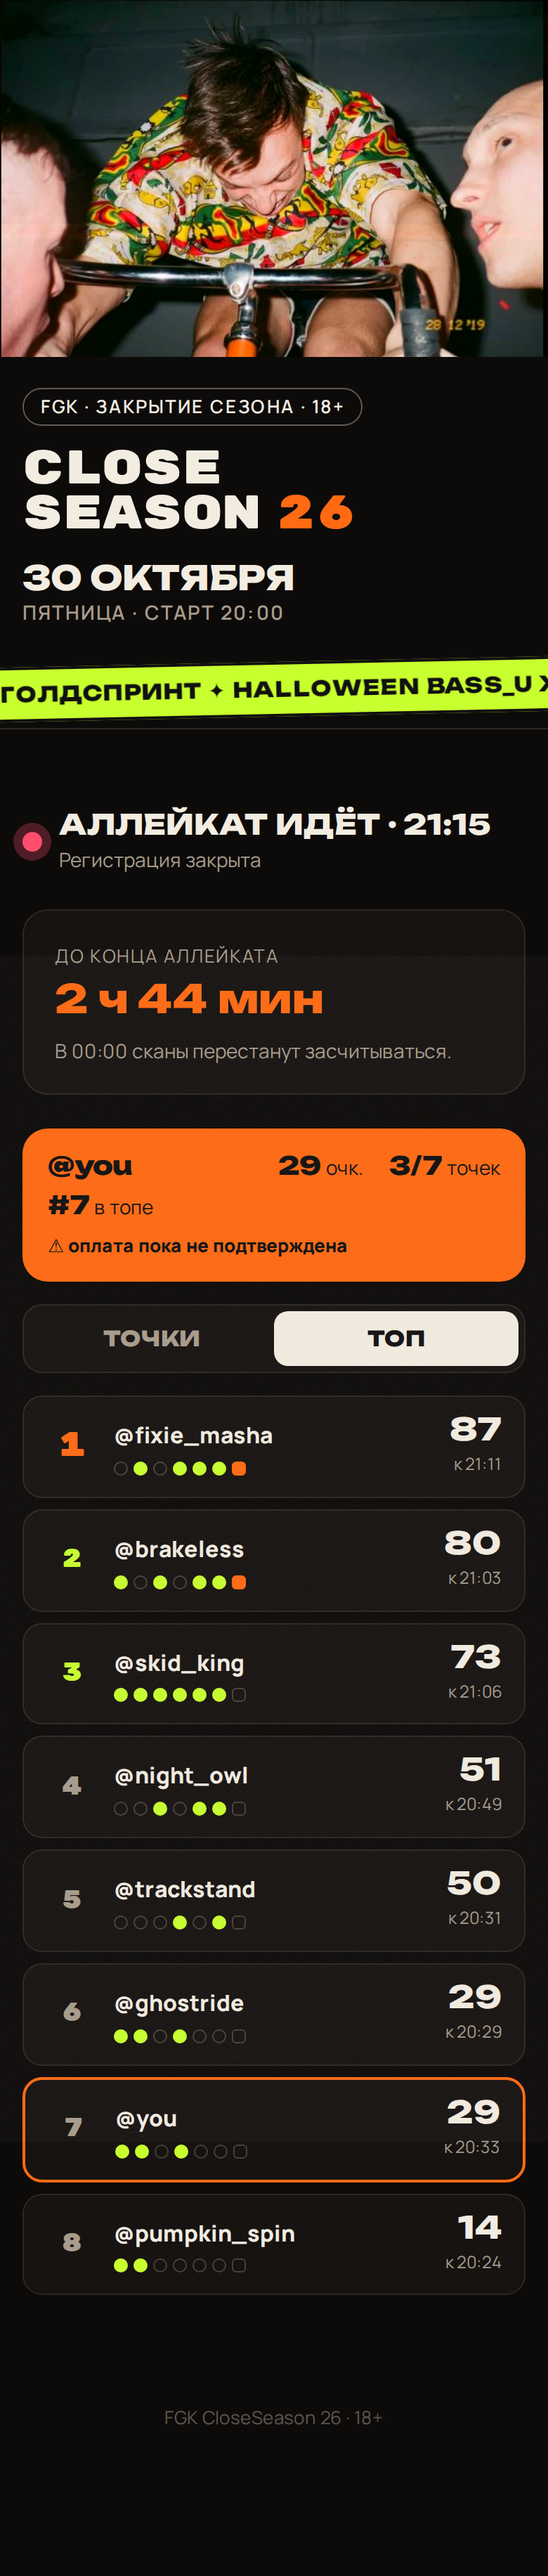
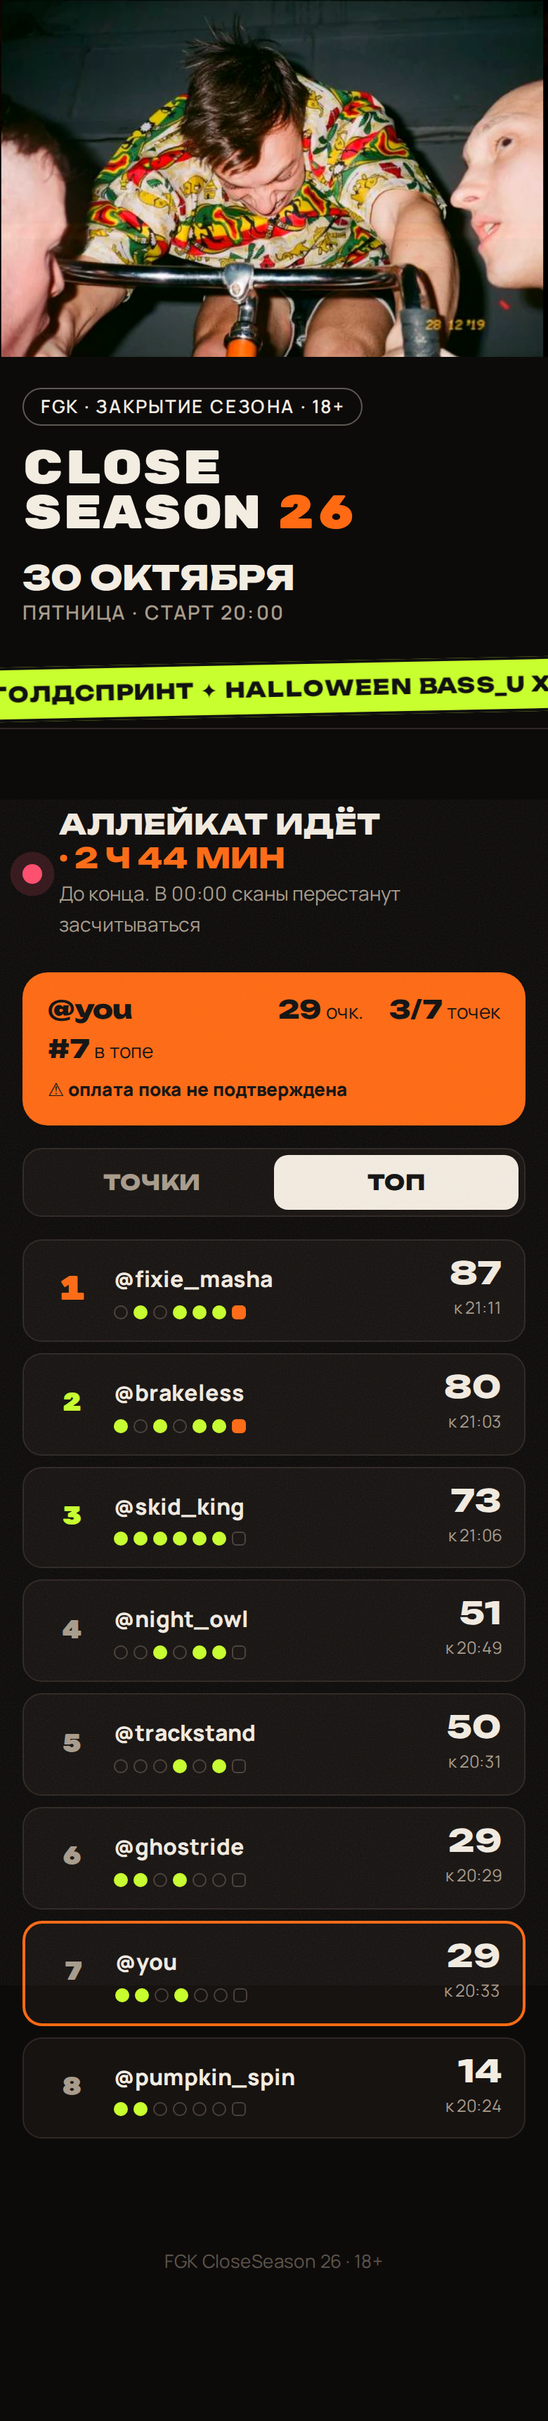
Шапка гонки: вместо часов обратный отсчёт до конца
Claude-Session: https://claude.ai/code/session_0122weFEyBkPzVmy7e3pz2TB

diff --git a/index.html b/index.html
@@ -9,7 +9,7 @@
   <link rel="preconnect" href="https://fonts.googleapis.com">
   <link rel="preconnect" href="https://fonts.gstatic.com" crossorigin>
   <link href="https://fonts.googleapis.com/css2?family=Rubik+Mono+One&family=Unbounded:wght@500;800&family=Manrope:wght@400;600;800&display=swap" rel="stylesheet">
-  <link rel="stylesheet" href="style.css?v=202610071028">
+  <link rel="stylesheet" href="style.css?v=202610071030">
 </head>
 <body>
   <div class="grain" aria-hidden="true"></div>
@@ -163,14 +163,8 @@
     <div class="view" id="race-view" hidden>
       <section class="live" id="live">
         <span class="live__dot" aria-hidden="true"></span>
-        <p class="live__text" id="live-text">Аллейкат идёт · <span id="race-clock">20:00</span></p>
+        <p class="live__text"><span id="live-label">Аллейкат идёт</span> <span class="live__clock">· <span id="race-clock">20:00</span></span></p>
         <p class="live__sub" id="live-sub">Регистрация закрыта</p>
-      </section>
-
-      <section class="countdown countdown--race" id="end-countdown" hidden>
-        <p class="countdown__label">До конца аллейката</p>
-        <p class="countdown__value" id="end-left">…</p>
-        <p class="countdown__note">В <span id="end-time">00:00</span> сканы перестанут засчитываться.</p>
       </section>
 
       <!-- гость: точки видны, но сканы не засчитываются -->
@@ -254,8 +248,8 @@
     <p>FGK CloseSeason 26 · 18+</p>
   </footer>
 
-  <script src="config.js?v=202610071028"></script>
-  <script src="data.js?v=202610071028"></script>
-  <script src="app.js?v=202610071028"></script>
+  <script src="config.js?v=202610071030"></script>
+  <script src="data.js?v=202610071030"></script>
+  <script src="app.js?v=202610071030"></script>
 </body>
 </html>

diff --git a/app.js b/app.js
@@ -263,16 +263,14 @@
   const raceEnded = () => state && state.end && now() >= state.end;
 
   function renderRace() {
-    $("race-clock").textContent = fmtTime(now());
     const ended = raceEnded();
     $("live").classList.toggle("is-ended", Boolean(ended));
-    $("live-text").firstChild.textContent = ended ? "Аллейкат завершён · " : "Аллейкат идёт · ";
-    $("live-sub").textContent = ended ? "Итоги ниже, во вкладке «Топ»" : "Регистрация закрыта";
-    $("end-countdown").hidden = !state.end || ended;
-    if (state.end && !ended) {
-      $("end-left").textContent = fmtLeft(state.end - now());
-      $("end-time").textContent = fmtTime(state.end);
-    }
+    // вместо часов — сколько осталось до конца аллейката
+    $("race-clock").textContent = ended ? fmtTime(state.end) : state.end ? fmtLeft(state.end - now()) : fmtTime(now());
+    $("live-label").textContent = ended ? "Аллейкат завершён" : "Аллейкат идёт";
+    $("live-sub").textContent = ended
+      ? "Итоги ниже, во вкладке «Топ»"
+      : state.end ? "До конца. В " + fmtTime(state.end) + " сканы перестанут засчитываться" : "Регистрация закрыта";
     $("race-join").hidden = Boolean(user);
     $("me").hidden = !user;
     if (user) renderMe();

diff --git a/style.css b/style.css
@@ -381,6 +381,8 @@ h1, h2, h3 { margin: 0; }
 @keyframes pulse { 70% { box-shadow: 0 0 0 12px rgba(255,77,109,0); } 100% { box-shadow: 0 0 0 0 rgba(255,77,109,0); } }
 .live__text { margin: 0; font: 800 20px/1.2 var(--head); text-transform: uppercase; }
 .live__sub { margin: 0; color: var(--muted); font-size: 14px; }
+.live__clock { white-space: nowrap; color: var(--orange); }
+.live.is-ended .live__clock { color: inherit; }
 .live.is-ended .live__dot { background: var(--muted); animation: none; }
 .countdown--race { margin: 0; }
 
